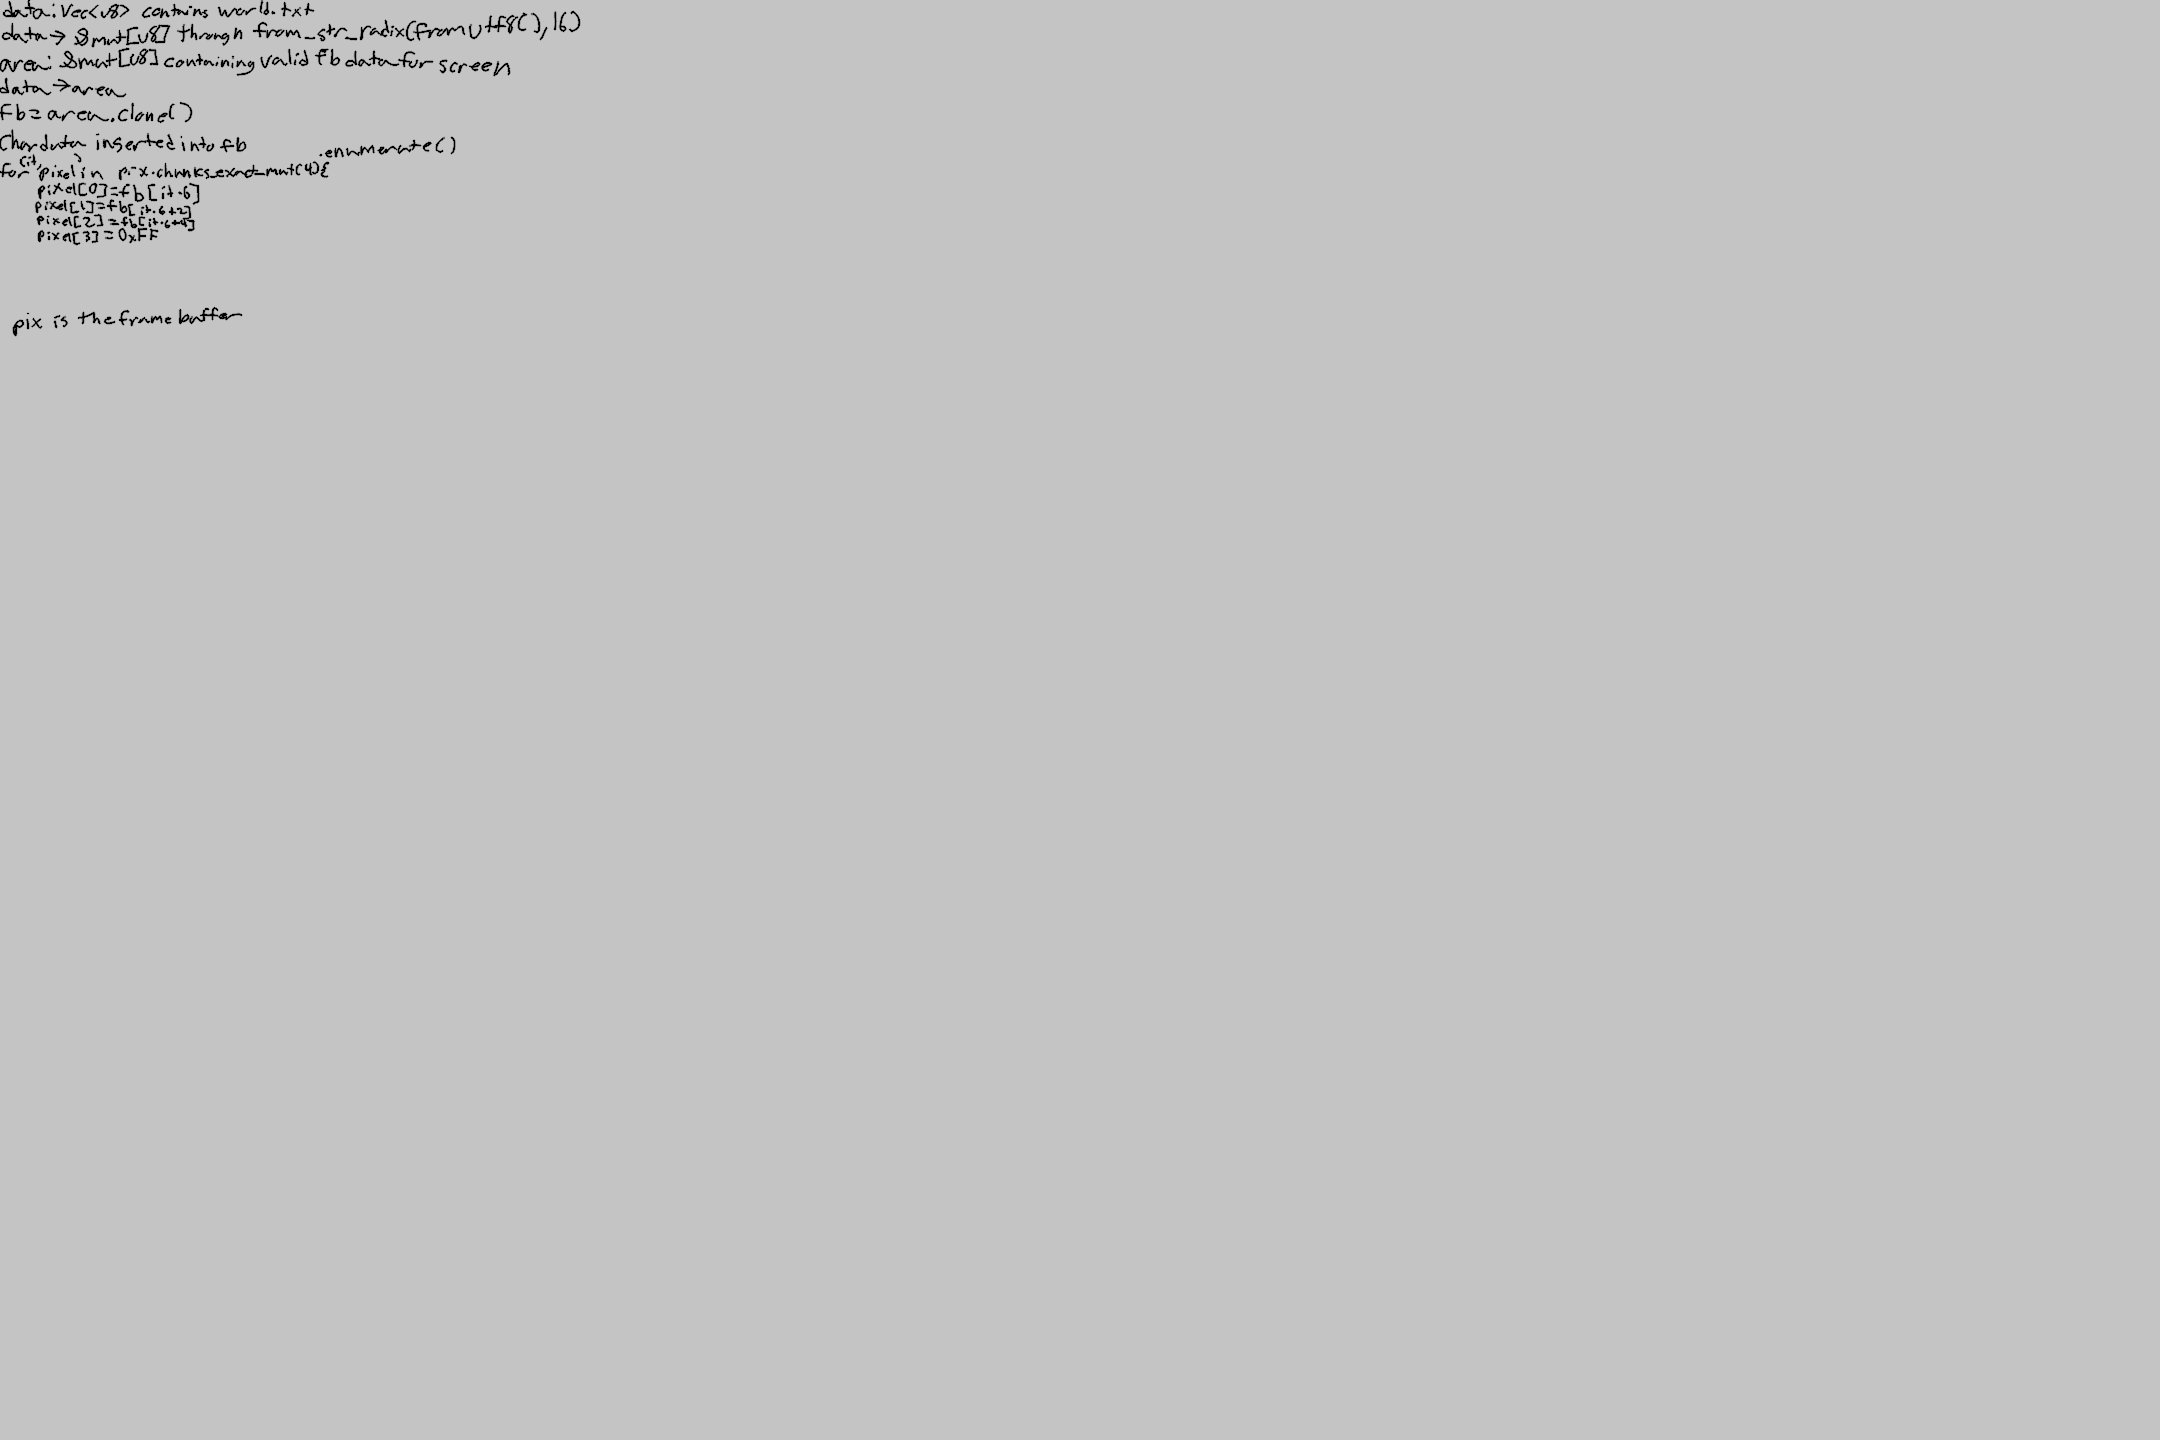
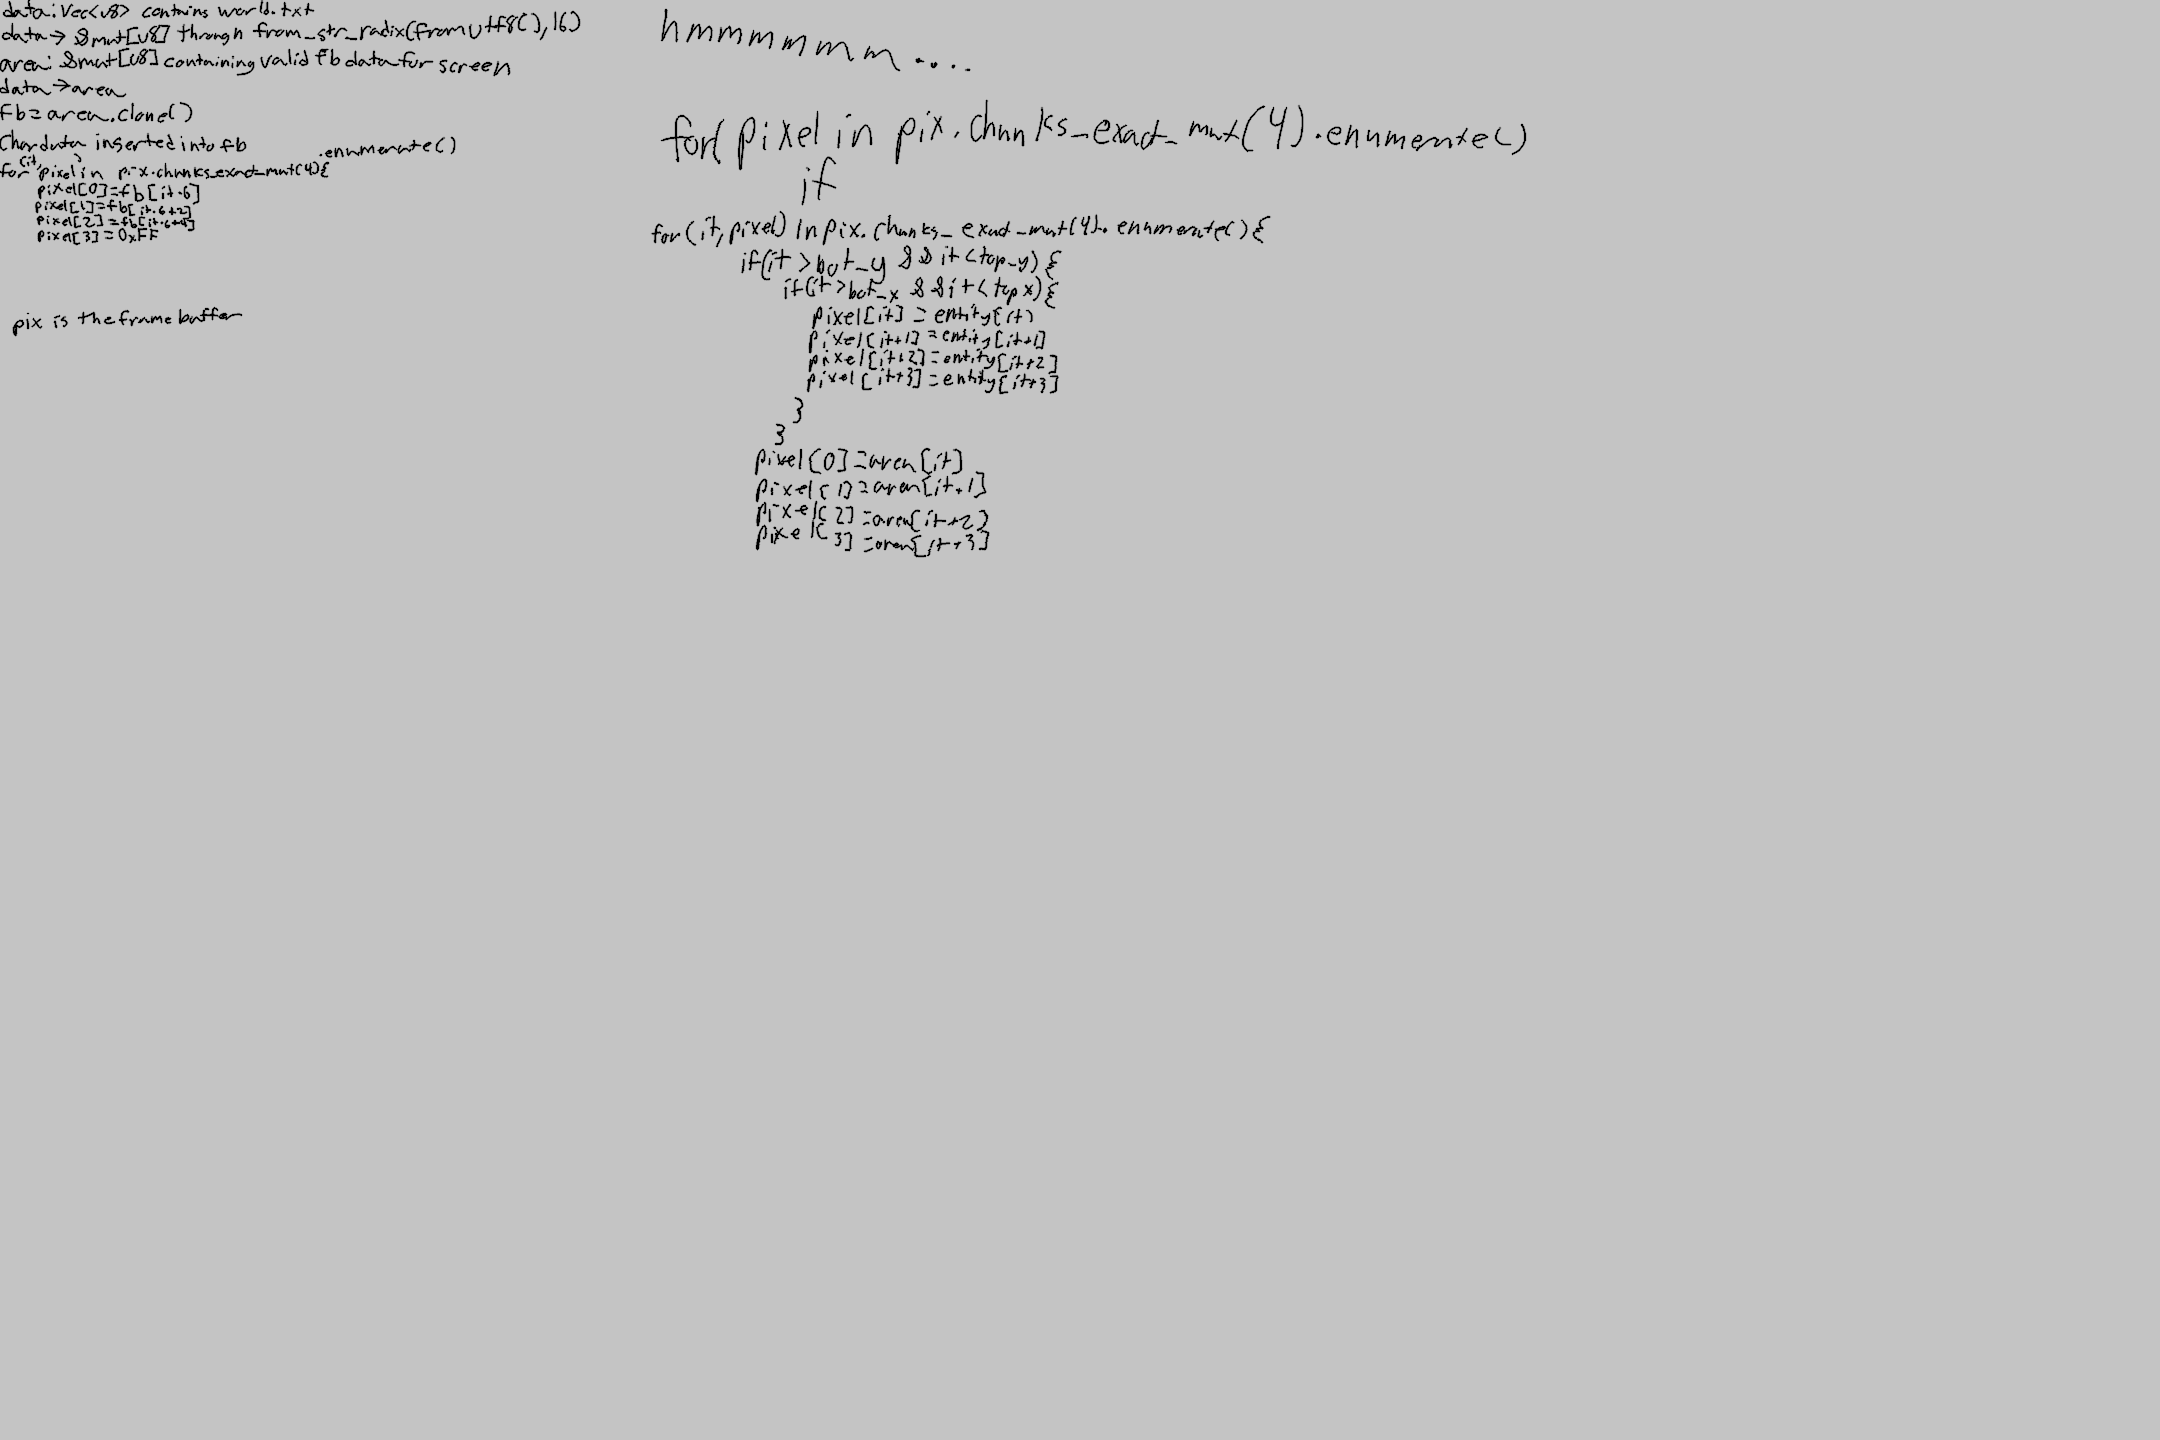
progress towards entities, need to fix overflow still

diff --git a/math_game/src/main.rs b/math_game/src/main.rs
@@ -49,7 +49,9 @@ fn main() -> Result<(), pixels::Error> {
 
     //frame buffer "pixels"
     let mut pixels = Pixels::new(720, 540, surface_texture)?;
-
+    // for pixel in pixels.get_frame().chunks_exact_mut(4) {
+    //     pixel[3] = 255;
+    // }
     //screen object that has the text.txt source file
     let mut screen = Screen::new("WorldData/dots.txt");
     //loop that runs program
@@ -120,9 +122,15 @@ impl Player {
             x_pos: START_X,
             y_pos: START_Y,
             move_state: 0,
-
-            sprite: std::fs::read(spr).unwrap(),
+            sprite: Player::gen_sprite(spr),
         }
+    }
+    fn gen_sprite(spr: &str) -> Vec<u8> {
+        let mut data = vec![];
+        for pix in std::fs::read(spr).unwrap().chunks_exact(2) {
+            data.push(u8::from_str_radix(std::str::from_utf8(pix).unwrap(), 16).unwrap());
+        }
+        data
     }
     fn mov(&mut self, dir: u8) {
         match dir {
@@ -185,82 +193,50 @@ impl Screen {
         }
         println!("Its this long, supposed to be like 2,332,800: {}",data.len());
         // for (it,x) in data.into_iter().enumerate() {
-        //     if it == 0 {continue;}
-        //     if it % 4 == 0 {
-        //         real_data.push(0);
+        //     // if it == 0 {continue;}
+        //     if it % 3 == 0 {
+        //         real_data.push(255);
         //     }
         //     real_data.push(x);
         // }
-        let a = format!("{:?}",&data);
-        std::fs::write("without_opacity.txt", a).unwrap();
-        println!("File created");
+        // real_data.remove(0);
+        // let a = format!("{:?}",&real_data);
+        // std::fs::write("without_opacity.txt", a).unwrap();
+        // println!("File created");
         //output the whole thing
         data
     }
 //pix never used but needed in order to draw to framebuffer
     fn draw(&self, pix: &mut [u8]) {
-        let times = SystemTime::now();
-        //iterator var
-        let mut fb = self.area.clone();
-        //entities are 18x27
-        //whole thing takes about 8ms
-        //each iteration is about 300 microseconds
-
-        const BYTE_LEN: u64 = 6;
-        const SCREEN_WIDTH: u64 = 720;
-        for v in 0..27 {
-            // for it in 0 .. 18 {
-            //     if std::str::from_utf8(self.player.sprite.get((BYTE_LEN*v+it) as usize .. (BYTE_LEN*v+it+BYTE_LEN) as usize).unwrap()).unwrap() == "000000" {
-            //
-            //     }
-            // }
-            //about 130 nanoseconds
-            let x = (BYTE_LEN * SCREEN_WIDTH * self.player.y_pos as u64) + (BYTE_LEN * (self.player.x_pos as u64)) + (BYTE_LEN * SCREEN_WIDTH * v);
-            // let a = mem::size_of_val(&x);
-            // println!("{}",x);
-            // println!("{}",a);
-            let (b4, l8) = fb.split_at(x as usize);
-            //0-26
-            //println!("{}",v);
-            //println!{"the split point is {}",p}
-            //either 70 or 200 nanoseconds
-            let (_, l8r) = l8.split_at(108);
-
-            //about 100 nanoseconds again with 400 spikes
-            let good = self
-                .player
-                .sprite
-                .get((BYTE_LEN * 18 * v) as usize..(BYTE_LEN * 18 * (v + 1)) as usize)
-                .unwrap();
-
-            //400-500 microseconds
-            fb = [b4, good, l8r].concat();
-
-            //test infodumps
-            //println!("the first part is {}, and the second is {}, and this is equal to {}",b4.len(),l8.len(),b4.len() + l8.len());
-            //println!("the discrepancy of the first part is {} \n",(b4.len() + l8.len())-(a.len() + l8r.len()));
+    let mut trig:bool = false;
+    let mut start = 0;
+    for (it,pixel) in pix.chunks_exact_mut(4).enumerate() {
+            if it % 720 > self.player.x_pos as usize && it % 720 < (self.player.x_pos + 17) as usize {
+                if it / 720 > self.player.y_pos as usize && it / 720 < (self.player.y_pos + 27) as usize{
+                    if !trig {trig = !trig;
+                    start = it;}
+                    pixel[0] = self.player.sprite[(it-start)*3];
+                    //do the expect thing tomorrow
+                    pixel[1] = self.player.sprite[(it-start)*3 + 1];
+                    pixel[2] = self.player.sprite[(it-start)*3 + 2];
+                    pixel[3] = 255;
+                }
+            } else {
+                pixel[0] = self.area[it * 3];
+                pixel[1] = self.area[it * 3 + 1];
+                pixel[2] = self.area[it * 3 + 2];
+                pixel[3] = 255;
+            }
         }
-        for (it,pixel) in pix.chunks_exact_mut(4).enumerate() {
-            pixel[0] = self.area[it*3];
-            pixel[1] = self.area[it*3+1];
-            pixel[2] = self.area[it*3+2];
-            pixel[3] = 255;
-        }
+
+
+
     //0-388799 it, should be right amt
     //testing the fb contents
     // let a = format!("{:?}",&pix);
     // std::fs::write("framebuffer.txt", a).unwrap();
     // println!("File created");
 
-        // for (it, pixel) in pix.chunks_exact_mut(4).enumerate() {
-        //     pixel[0] = fb[it*6];
-        //     pixel[1] = fb[it*6+2];
-        //     pixel[2] = fb[it*6+4];
-        //     pixel[3] = 0xFF;
-        // }
-        let time_n = SystemTime::now();
-        let diff = time_n.duration_since(times).unwrap();
-        println!("{:?}", diff);
     }
 }
 // fn _update(&mut self, sc) -> std::io::Result <()> {
